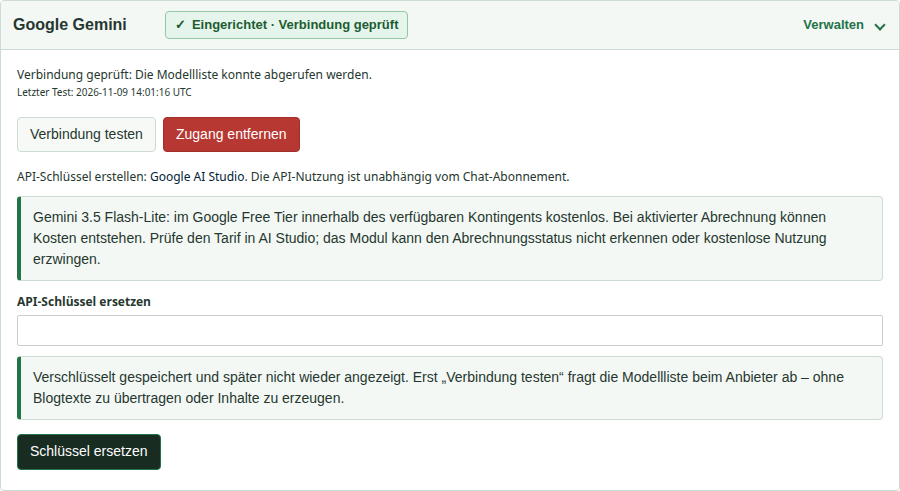
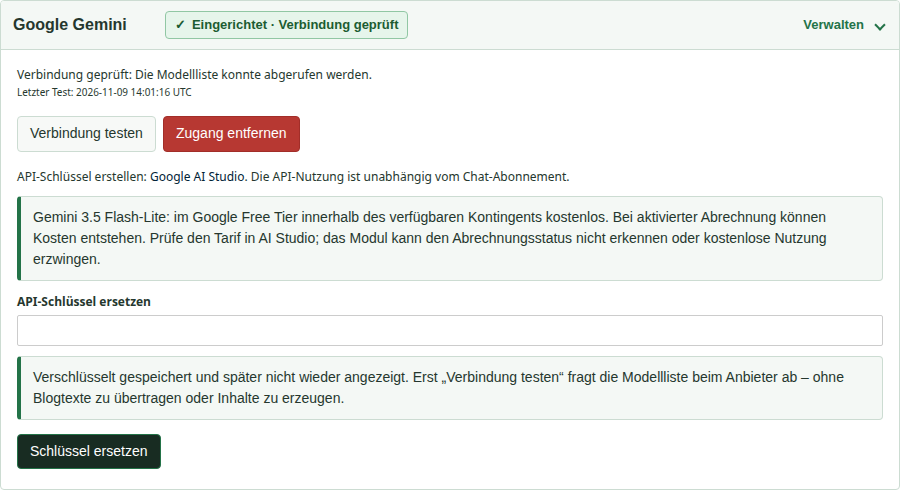
Refresh all 7 AI screenshots for 0.11.1

Changed region(s): [[0.0, 0.947, 1.0, 1.0], [0.0311, 0.2138, 0.1556, 0.3055], [0.1867, 0.2444, 0.3111, 0.3055]]

diff --git a/docs/BILDERRUNDGANG.md b/docs/BILDERRUNDGANG.md
@@ -1,8 +1,8 @@
 # c1zz-ki für Gambio – Bilderrundgang
 
-**0.11.1-rc.1 · Abbildungen aus früherem Modulstand**
+**0.11.1-rc.1 · Modulstand 0.11.1 · Blog 0.46.1**
 
-Die Abbildungen stammen aus dem früheren Stand 0.9.0 (09.11.2026). Sechs Ansichten zeigen den Arbeitsablauf im lokalen GX26-Testshop. Die redaktionellen Beispieltexte und Shopangaben wurden ausschließlich für die Abbildungen in der Browseransicht eingesetzt. Keine gespeicherten Nutzerdaten wurden dadurch geändert. API-Schlüsselfelder sind leer; die Aufnahmen lösten keine KI-Anfragen aus.
+Alle Abbildungen wurden am 10.11.2026 neu aufgenommen. Sieben Ansichten zeigen den Arbeitsablauf im lokalen GX26-Testshop. Die redaktionellen Beispieltexte und Shopangaben wurden ausschließlich für die Abbildungen in der Browseransicht eingesetzt. Keine gespeicherten Nutzerdaten wurden dadurch geändert. API-Schlüsselfelder sind leer; die Aufnahmen lösten keine KI-Anfragen aus.
 
 ## 1. Bereiche und Anbieter verwalten
 
@@ -39,3 +39,9 @@ Die Auswahl im Dropdown lädt den gespeicherten Vorschlagssatz direkt und ohne e
 Die Bildhilfe liegt direkt beim Titelbild des Artikels. Beschreibung aus dem Artikel prüfen, Bildstil und Anbieter wählen, Text kopieren und auf der Anbieter-Webseite einfügen. Das fertige Bild wird anschließend über den vorhandenen Blogupload hinzugefügt. Die Abbildung zeigt eine lokal vorbereitete Beschreibung; kein Bild wurde für die Aufnahme generiert.
 
 [![Bildbeschreibung mit Stilwahl, ChatGPT/Gemini und Kopierfunktion](images/blogbild-browser.png)](images/blogbild-browser.png)
+
+## 7. Updates direkt im Modul
+
+Installierte Version, Ergebnis und Zeitpunkt der letzten GitHub-Prüfung sowie der abgeschlossene Updatefortschritt sind sichtbar. Testversionen lassen sich ausdrücklich einbeziehen. Für die Aufnahme wurde nur nach Updates gesucht; der dargestellte Lauf war bereits abgeschlossen.
+
+[![Aktueller KI-Versionsstatus und abgeschlossener Updateablauf](images/aktualisieren.png)](images/aktualisieren.png)

diff --git a/docs/TESTSTAND.md b/docs/TESTSTAND.md
@@ -29,6 +29,6 @@ Die GitHub-Antworten im frischen Shop waren ausschließlich in der temporären V
 
 Keine neue Freigabe für GX5, Honeygrid, PHP 8.3, MySQL 8.4 oder Unterverzeichnisinstallationen. Der neue Weg verwendet konfigurierte Shopverzeichnisse, wurde in diesem Durchlauf aber im Shop-Hauptverzeichnis geprüft. Kein unabhängiger Penetrationstest. Die Herkunftssignatur wird im Shop noch nicht kryptografisch geprüft.
 
-[Maschinelle Ergebnisse und Paketprüfsummen](test-results.json). Die vorhandenen Screenshots zeigen weiterhin die jeweils im Bilderrundgang angegebenen älteren Oberflächenstände.
+[Maschinelle Ergebnisse und Paketprüfsummen](test-results.json). Die Dokumentationsbilder wurden am 10.11.2026 separat mit Blog 0.46.1 und KI 0.11.1 erneuert; Einzelheiten stehen im Bilderrundgang.
 
 Nach der öffentlichen Freigabe: beide Installer mit dem echten Updater aus GX26 ohne GitHub-Zugangsdaten heruntergeladen und alle 197 Paketdateien geprüft, ohne Moduldateien zu verändern. Weitere 6 native Chromiumprüfungen bestätigen die echten GitHub-Abfragen beider Updatebereiche. Herkunftsnachweise mit der GitHub CLI gegen Repository, Workflow, Release-Tag und exakten Commit erfolgreich verifiziert. Veröffentlichte Assets stimmen mit den lokalen Prüfsummen überein; Vorgängerassets blieben unverändert.

diff --git a/README.md b/README.md
@@ -10,6 +10,8 @@ Neue Themen finden und Blogentwürfe erstellen, direkt in **c1zz-blog für Gambi
 
 ![Gemini im Blogassistenten: Modellwahl, Auftrag und Entwurfserstellung](docs/images/blogentwurf.png)
 
+Alle Screenshots wurden am **10.11.2026 mit KI 0.11.1 und Blog 0.46.1** erneuert. Der [Bilderrundgang](docs/BILDERRUNDGANG.md) zeigt auch die aktuelle Updateverwaltung.
+
 ## Vertrauen vor Installation
 
 Du installierst Software eines zunächst fremden Anbieters in einen Shop, mit dem du Geld verdienen möchtest. **Vertrauen muss deshalb vor der Installation entstehen.** Wir zeigen Herkunft, Änderungen, Datenzugriffe, tatsächliche Prüfergebnisse und bekannte Grenzen. Du entscheidest über Installation und Updates. Prüfsummen und Herkunftsnachweise werden klar von einer unabhängigen Sicherheitsprüfung unterschieden.
